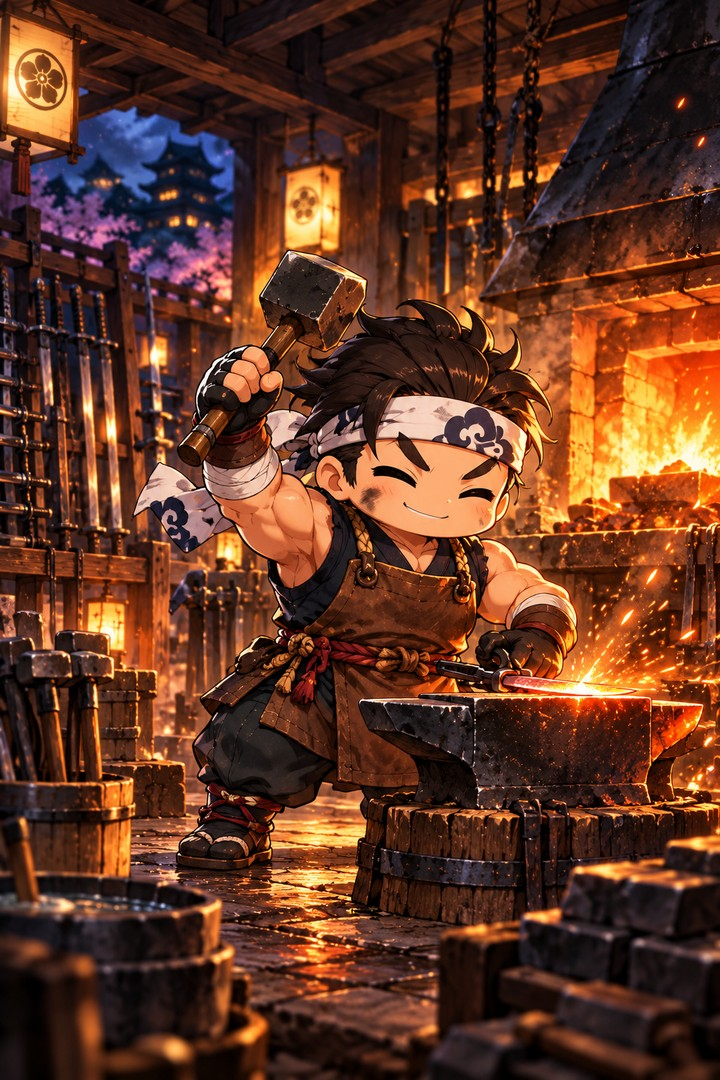
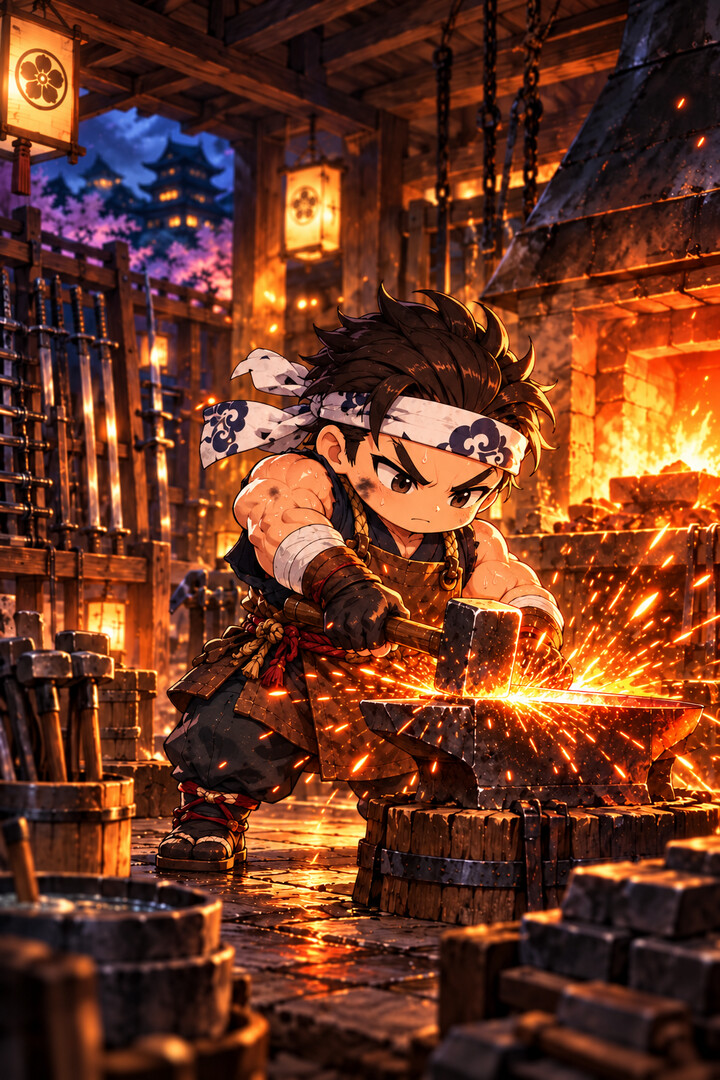
Add STEP79 bottom village choices and focused smith

diff --git a/tools/apply_step79_village_bottom_choices.py b/tools/apply_step79_village_bottom_choices.py
@@ -1,0 +1,186 @@
+from pathlib import Path
+
+p = Path("Main.gd")
+s = p.read_text(encoding="utf-8")
+original = s
+
+if "STEP79_VILLAGE_BOTTOM_CHOICES_APPLIED" in s:
+    print("STEP79_VILLAGE_BOTTOM_CHOICES PASS (already applied)")
+    raise SystemExit(0)
+
+marker = "# STEP78_VILLAGE_ILLUSTRATIONS_APPLIED\n"
+if marker not in s:
+    raise SystemExit("STEP79 STEP78 anchor failed")
+s = s.replace(marker, marker + "# STEP79_VILLAGE_BOTTOM_CHOICES_APPLIED\n", 1)
+
+s = s.replace(
+    "const WAREHOUSE_VISIBLE_ROWS := 8",
+    "const WAREHOUSE_VISIBLE_ROWS := 5",
+    1,
+)
+s = s.replace(
+    "var scroll_ok := warehouse_scroll_offset == 4",
+    "var scroll_ok := warehouse_scroll_offset == mini(WAREHOUSE_VISIBLE_ROWS, warehouse_max_scroll())",
+    1,
+)
+
+# Warehouse row hit testing must follow its new lower-screen list.
+s = s.replace(
+    "Rect2(48, 318 + row * 62, 624, 52).has_point(warehouse_touch_pos)",
+    "Rect2(48, 584 + row * 54, 624, 46).has_point(warehouse_touch_pos)",
+    1,
+)
+
+touch_start = s.find("func handle_village_touch_portrait(pos: Vector2) -> void:")
+touch_end = s.find("\n\nfunc handle_modal_touch_portrait", touch_start)
+if touch_start < 0 or touch_end < 0:
+    raise SystemExit("STEP79 touch block failed")
+
+touch_block = '''func village_main_choice_rect(index: int) -> Rect2:
+\tvar column := index % 2
+\tvar row := floori(index / 2.0)
+\treturn Rect2(48 + column * 324, 758 + row * 96, 300, 82)
+
+
+func village_shop_choice_y(item_count: int, index: int) -> float:
+\treturn maxf(330.0, 890.0 - item_count * 54.0) + index * 54.0
+
+
+func handle_village_touch_portrait(pos: Vector2) -> void:
+\tif village_menu == "main":
+\t\tfor i in range(4):
+\t\t\tif village_main_choice_rect(i).has_point(pos):
+\t\t\t\tif i == 0: village_menu = "blacksmith"; message = "鍛冶屋"
+\t\t\t\telif i == 1: village_menu = "warehouse"; warehouse_sync_scroll(); message = "倉庫"
+\t\t\t\telif i == 2: village_menu = "village_shop"; message = "商店"
+\t\t\t\telse: start_run()
+\t\t\t\tqueue_redraw(); return
+\telse:
+\t\tif Rect2(48, 910, 180, 48).has_point(pos): village_menu = "main"; message = "忍びの里。"
+\t\telif village_menu == "blacksmith":
+\t\t\tif Rect2(48, 744, 624, 68).has_point(pos): synthesize_equipment("weapon")
+\t\t\telif Rect2(48, 826, 624, 68).has_point(pos): synthesize_equipment("armor")
+\t\telif village_menu == "warehouse":
+\t\t\tif Rect2(48, 520, 624, 54).has_point(pos):
+\t\t\t\tmessage = "%d個を倉庫へ預けた。" % warehouse_store_carried_all(); warehouse_sync_scroll()
+\t\t\telif Rect2(48, 846, 270, 48).has_point(pos): warehouse_scroll(-WAREHOUSE_VISIBLE_ROWS)
+\t\t\telif Rect2(402, 846, 270, 48).has_point(pos): warehouse_scroll(WAREHOUSE_VISIBLE_ROWS)
+\t\t\telse:
+\t\t\t\tfor row in range(WAREHOUSE_VISIBLE_ROWS):
+\t\t\t\t\tvar index := warehouse_scroll_offset + row
+\t\t\t\t\tif index >= warehouse_items.size(): break
+\t\t\t\t\tif Rect2(48, 584 + row * 54, 624, 46).has_point(pos): warehouse_withdraw(index); break
+\t\telif village_menu == "village_shop":
+\t\t\tvar catalog := village_shop_catalog()
+\t\t\tfor i in range(catalog.size()):
+\t\t\t\tif Rect2(48, village_shop_choice_y(catalog.size(), i), 624, 46).has_point(pos): buy_village_shop_item(i); break
+\t\tqueue_redraw()
+'''
+s = s[:touch_start] + touch_block + s[touch_end:]
+
+draw_start = s.find("func draw_village_portrait() -> void:")
+draw_end = s.find("\n\nfunc dungeon_visual_hash", draw_start)
+if draw_start < 0 or draw_end < 0:
+    raise SystemExit("STEP79 village draw block failed")
+
+draw_block = '''func draw_village_portrait() -> void:
+\tvar scene_key := village_menu if village_scene_textures.has(village_menu) else "main"
+\tvar scene_texture: Texture2D = village_scene_textures.get(scene_key, null) as Texture2D
+\tif scene_texture != null:
+\t\tdraw_texture_rect(scene_texture, Rect2(0, 0, 720, 1100), false)
+\telse:
+\t\tdraw_rect(Rect2(0, 0, 720, 1100), Color("#0a1017"))
+\tdraw_rect(Rect2(0, 0, 720, 1100), Color(0.015, 0.025, 0.045, 0.12))
+\tdraw_rect(Rect2(0, 0, 720, 198), Color(0.03, 0.055, 0.09, 0.82))
+\tdraw_rect(Rect2(0, 195, 720, 3), Color("#d3b35b"))
+\tdraw_ui_text(Vector2(46, 72), "忍びの里", HORIZONTAL_ALIGNMENT_LEFT, -1, 44, Color("#e8d47f"))
+\tdraw_ui_text(Vector2(48, 122), "忍魂 %d    銭 %d" % [souls, coins], HORIZONTAL_ALIGNMENT_LEFT, -1, 21, Color("#e4e8ed"))
+\tdraw_ui_text(Vector2(48, 162), "最高到達 %dF    倉庫 %d/50    持込 %d/5" % [village_unlocked_floor(), warehouse_items.size(), inventory_items.size()], HORIZONTAL_ALIGNMENT_LEFT, -1, 18, Color("#aeb7c2"))
+\tif village_menu == "main":
+\t\tvar labels = ["鍛冶屋", "倉庫", "商店", "出陣"]
+\t\tvar notes = ["装備を合成", "50個まで保管", "品物を購入", "探索を始める"]
+\t\tfor i in range(labels.size()):
+\t\t\tvar r := village_main_choice_rect(i)
+\t\t\tvar fill := Color(0.16, 0.15, 0.08, 0.92) if i == 3 else Color(0.04, 0.07, 0.10, 0.90)
+\t\t\tvar border := Color("#d7bf66") if i == 3 else Color("#687786")
+\t\t\tdraw_panel(r, fill, border, 2.0)
+\t\t\tdraw_ui_text(r.position + Vector2(0, 35), labels[i], HORIZONTAL_ALIGNMENT_CENTER, r.size.x, 24, Color("#f0f2f5"))
+\t\t\tdraw_ui_text(r.position + Vector2(0, 64), notes[i], HORIZONTAL_ALIGNMENT_CENTER, r.size.x, 15, Color("#c8d0d8"))
+\telse:
+\t\tvar title := "鍛冶屋" if village_menu == "blacksmith" else ("倉庫" if village_menu == "warehouse" else "商店")
+\t\tdraw_ui_text(Vector2(48, 244), title, HORIZONTAL_ALIGNMENT_LEFT, -1, 32, Color("#e8d47f"))
+\t\tif village_menu == "blacksmith":
+\t\t\tvar weapon_price := 50 + smith_weapon_rank * 25
+\t\t\tvar armor_price := 50 + smith_armor_rank * 25
+\t\t\tvar actions = ["忍刀 +%d → +%d（銭%d）" % [smith_weapon_rank, smith_weapon_rank + 1, weapon_price], "忍装束 +%d → +%d（銭%d）" % [smith_armor_rank, smith_armor_rank + 1, armor_price]]
+\t\t\tfor i in range(actions.size()):
+\t\t\t\tvar r := Rect2(48, 744 + i * 82, 624, 68); draw_panel(r, Color(0.04, 0.07, 0.10, 0.90), Color("#687786"), 2.0)
+\t\t\t\tdraw_ui_text(r.position + Vector2(20, 44), actions[i], HORIZONTAL_ALIGNMENT_LEFT, -1, 21, Color.WHITE)
+\t\telif village_menu == "warehouse":
+\t\t\tvar store := Rect2(48, 520, 624, 54); draw_panel(store, Color(0.16, 0.15, 0.08, 0.92), Color("#d7bf66"))
+\t\t\tdraw_ui_text(store.position + Vector2(18, 37), "持ち物を全て預ける", HORIZONTAL_ALIGNMENT_LEFT, -1, 19, Color.WHITE)
+\t\t\twarehouse_sync_scroll()
+\t\t\tfor row in range(WAREHOUSE_VISIBLE_ROWS):
+\t\t\t\tvar index := warehouse_scroll_offset + row
+\t\t\t\tif index >= warehouse_items.size(): break
+\t\t\t\tvar entry: Dictionary = warehouse_items[index]; var r := Rect2(48, 584 + row * 54, 624, 46); draw_panel(r, Color(0.04, 0.07, 0.10, 0.90), Color("#687786"))
+\t\t\t\tvar suffix := "×%d" % int(entry.get("count", 1)) if is_projectile_name(str(entry.get("name", ""))) else ""
+\t\t\t\tdraw_ui_text(r.position + Vector2(18, 32), "%d  %s%s    持ち出す" % [index + 1, str(entry.get("name", "")), suffix], HORIZONTAL_ALIGNMENT_LEFT, -1, 17, Color.WHITE)
+\t\t\tvar prev := Rect2(48, 846, 270, 48); var next := Rect2(402, 846, 270, 48)
+\t\t\tdraw_panel(prev, Color(0.04, 0.07, 0.10, 0.90), Color("#687786") if warehouse_scroll_offset > 0 else Color("#29323b"))
+\t\t\tdraw_panel(next, Color(0.04, 0.07, 0.10, 0.90), Color("#687786") if warehouse_scroll_offset < warehouse_max_scroll() else Color("#29323b"))
+\t\t\tdraw_ui_text(prev.position + Vector2(92, 33), "↑ 前へ", HORIZONTAL_ALIGNMENT_LEFT, -1, 18, Color.WHITE)
+\t\t\tdraw_ui_text(next.position + Vector2(92, 33), "↓ 次へ", HORIZONTAL_ALIGNMENT_LEFT, -1, 18, Color.WHITE)
+\t\telif village_menu == "village_shop":
+\t\t\tvar catalog := village_shop_catalog()
+\t\t\tdraw_ui_text(Vector2(240, 244), "%d階到達までの商品" % village_unlocked_floor(), HORIZONTAL_ALIGNMENT_LEFT, -1, 18, Color("#d8dee5"))
+\t\t\tfor i in range(catalog.size()):
+\t\t\t\tvar offer: Dictionary = catalog[i]; var r := Rect2(48, village_shop_choice_y(catalog.size(), i), 624, 46); draw_panel(r, Color(0.04, 0.07, 0.10, 0.90), Color("#687786"))
+\t\t\t\tdraw_ui_text(r.position + Vector2(16, 31), "%s    %d銭" % [str(offer["label"]), int(offer["price"])], HORIZONTAL_ALIGNMENT_LEFT, -1, 17, Color.WHITE)
+\t\tvar back := Rect2(48, 910, 180, 48); draw_panel(back, Color(0.04, 0.07, 0.10, 0.92), Color("#687786"))
+\t\tdraw_ui_text(back.position + Vector2(24, 33), "戻る", HORIZONTAL_ALIGNMENT_LEFT, -1, 20, Color.WHITE)
+\tdraw_panel(Rect2(40, 984, 640, 70), Color(0.04, 0.07, 0.10, 0.90), Color("#394653"), 1.0)
+\tdraw_ui_text(Vector2(54, 1028), message.left(40), HORIZONTAL_ALIGNMENT_LEFT, -1, 19, Color("#e5d37d"))
+\tdraw_ui_text(Vector2(465, 46), "Ver.%s" % VERSION, HORIZONTAL_ALIGNMENT_LEFT, -1, 14, Color("#7f8b98"))
+'''
+s = s[:draw_start] + draw_block + s[draw_end:]
+
+test_anchor = "\n\nfunc debug_test_village_illustration_contract() -> String:\n"
+if test_anchor not in s:
+    raise SystemExit("STEP79 regression anchor failed")
+test_func = '''
+
+func debug_test_village_bottom_choice_layout() -> String:
+\tvar a := village_main_choice_rect(0)
+\tvar b := village_main_choice_rect(1)
+\tvar c := village_main_choice_rect(2)
+\tvar d := village_main_choice_rect(3)
+\tvar bottom_ok := a.position.y >= 740.0 and d.end.y < 984.0
+\tvar grid_ok := a.position.y == b.position.y and c.position.y == d.position.y and a.position.x == c.position.x and b.position.x == d.position.x
+\treturn "PASS village bottom 2x2" if bottom_ok and grid_ok else "FAIL village bottom 2x2"
+'''
+s = s.replace(test_anchor, test_func + test_anchor, 1)
+s = s.replace(
+    '''\t\tdebug_test_level_and_full_heal_growth(),
+\t\tdebug_test_village_illustration_contract(),''',
+    '''\t\tdebug_test_level_and_full_heal_growth(),
+\t\tdebug_test_village_bottom_choice_layout(),
+\t\tdebug_test_village_illustration_contract(),''',
+    1,
+)
+
+required = [
+    "STEP79_VILLAGE_BOTTOM_CHOICES_APPLIED",
+    "func village_main_choice_rect(index: int) -> Rect2:",
+    "Rect2(48 + column * 324, 758 + row * 96, 300, 82)",
+    "const WAREHOUSE_VISIBLE_ROWS := 5",
+    "debug_test_village_bottom_choice_layout()",
+]
+for needle in required:
+    if needle not in s:
+        raise SystemExit(f"STEP79 verification failed: {needle}")
+if s == original:
+    raise SystemExit("STEP79 made no changes")
+
+p.write_text(s, encoding="utf-8")
+print("STEP79_VILLAGE_BOTTOM_CHOICES PASS")

diff --git a/tools/apply_step78_village_illustrations.py b/tools/apply_step78_village_illustrations.py
@@ -109,3 +109,4 @@ if s == original:
 
 p.write_text(s, encoding="utf-8")
 print("STEP78_VILLAGE_ILLUSTRATIONS PASS")
+exec(Path("tools/apply_step79_village_bottom_choices.py").read_text(encoding="utf-8"), {})
